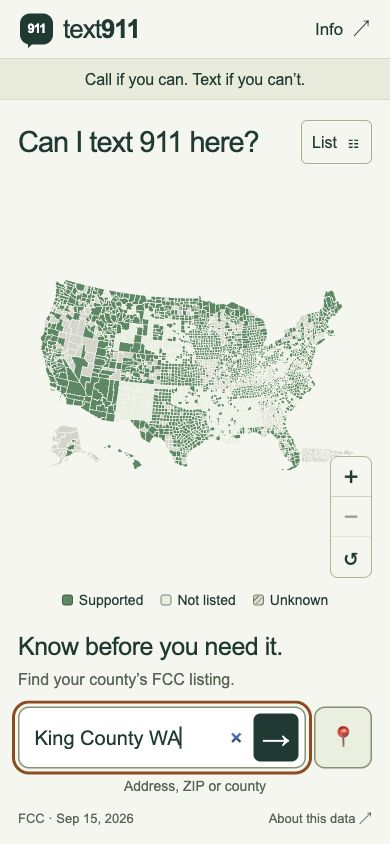
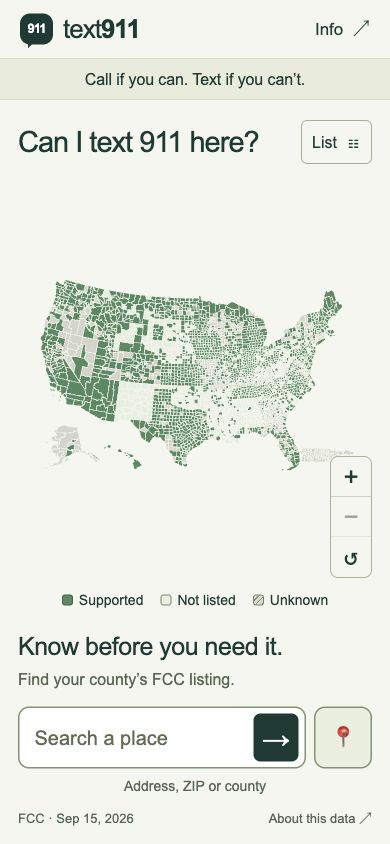
Add public demo screenshot, hosted verification and release walkthrough

Changed region(s): [[0.0308, 0.8318, 0.8, 0.9242]]

diff --git a/docs/release-notes.md b/docs/release-notes.md
@@ -1,0 +1,19 @@
+# Text911 v0.1.0 — Public preview
+
+Text911 turns the official FCC Text-to-911 readiness registry into a phone-first county map and lookup.
+
+- [Open the app](https://reza2kn-text911.hf.space)
+- [Hugging Face Space](https://huggingface.co/spaces/Reza2kn/Text911)
+- [Source repository](https://github.com/Reza2kn/Text911)
+
+This release includes address, ZIP and county search; a permission-based device-location button; Supported, Not listed and Unknown states; an equivalent county list; source rows and dates; a safe FCC refresh script; Docker hosting; and documentation for a short presentation.
+
+FCC snapshot: **September 15, 2026**. Data: **3,653 registry rows, 3,235 county equivalents, 33,791 Census ZIP areas**.
+
+Validation: **15 automated tests passed**, **10 county/equivalent checks passed**, and tested accessibility scans found **no confirmed A/AA violations**. The public Space was verified as Running on CPU Basic hardware. Health, registry and report endpoints returned HTTP 200. Live address and coordinate lookups returned the expected counties for public demonstration inputs. An outside-U.S. coordinate lookup returned no county. The app was also tested inside the Hugging Face iframe.
+
+The release archive contains the same source as this versioned GitHub tag. `npm ci && npm run verify` reproduces the build, tests and county checks. `Dockerfile` serves the production app on port 7860.
+
+**Full screen-reader acceptance and physical-phone testing remain incomplete.** See [the audit](https://github.com/Reza2kn/Text911/blob/main/reports/accessibility.md) for the exact verification scope. Registry readiness is not proof of live delivery or countywide coverage. Registration is voluntary; Not listed does not mean unavailable. The app cannot contact emergency services.
+
+Call if you can, text if you can't.
